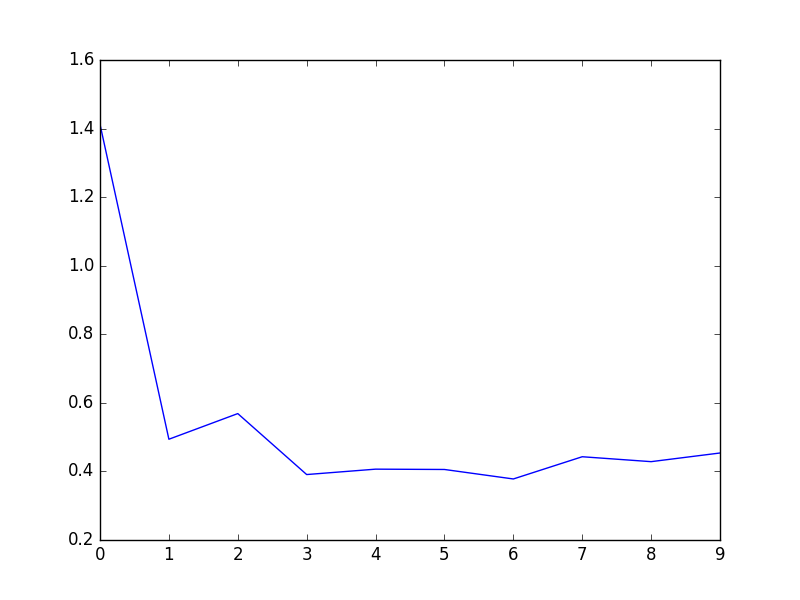
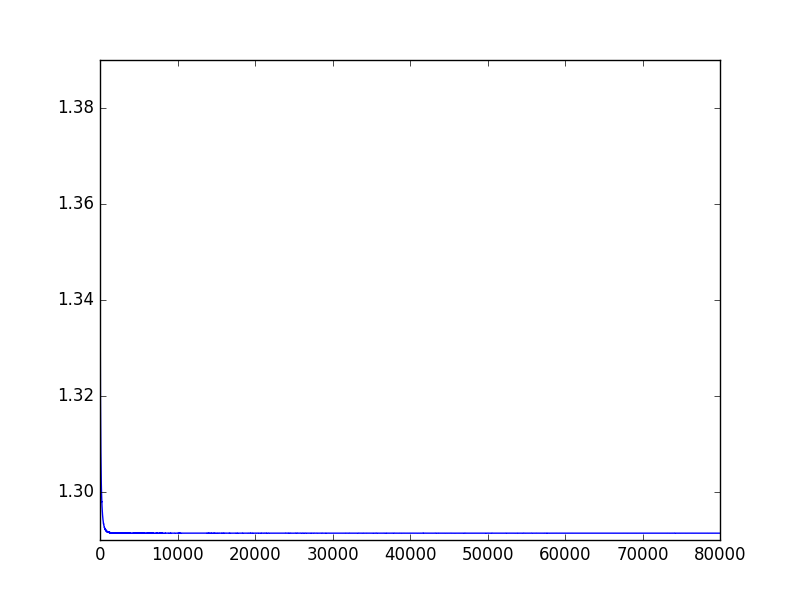
Change dim of hidden layer

diff --git a/Training.py b/Training.py
@@ -12,15 +12,15 @@ import matplotlib.pyplot as plt
 df = pd.read_csv('dorcus_DL_study.csv')
 
 # load autoencoder
-autoencoder = model_from_json(open('model_enc.json').read())
-autoencoder.load_weights('param_enc.h5')
+#autoencoder = model_from_json(open('model_enc.json').read())
+#autoencoder.load_weights('param_enc.h5')
 
 # set initial parameters
-_w = autoencoder.get_weights()
-w = _w[:6]
+#_w = autoencoder.get_weights()
+#w = _w[:6]
 
 # number of training
-numTraining = 200000
+numTraining = 80000
 
 # number of class
 Cls = list(df['class'].unique()) # [1, 2, 3, 4]
@@ -41,15 +41,15 @@ trX = np.array(X)
 
 # set model
 model = Sequential()
-model.add(Dense(output_dim=10, input_dim=2))
+model.add(Dense(output_dim=2, input_dim=2, init='normal'))
 model.add(Activation('relu'))
-model.add(Dense(output_dim=10, input_dim=10))
+model.add(Dense(output_dim=2, input_dim=2, init='normal'))
 model.add(Activation('relu'))
-model.add(Dense(output_dim=4, input_dim=10))
+model.add(Dense(output_dim=4, input_dim=2, init='normal'))
 model.add(Activation('softmax'))
 
 # set initial weights
-model.set_weights(w)
+#model.set_weights(w)
 
 # compile
 model.compile(loss='categorical_crossentropy', optimizer='adagrad', metrics=['accuracy'])

diff --git a/AutoEncoder.py b/AutoEncoder.py
@@ -26,15 +26,15 @@ trX = np.array(X)
 
 # encode
 autoencoder = Sequential()
-autoencoder.add(Dense(output_dim=10, input_dim=2, init='uniform'))
+autoencoder.add(Dense(output_dim=2, input_dim=2, init='uniform'))
 autoencoder.add(Activation('relu'))
-autoencoder.add(Dense(output_dim=10, input_dim=10, init='uniform'))
+autoencoder.add(Dense(output_dim=2, input_dim=2, init='uniform'))
 autoencoder.add(Activation('relu'))
-autoencoder.add(Dense(output_dim=4, input_dim=10, init='uniform'))
+autoencoder.add(Dense(output_dim=4, input_dim=2, init='uniform'))
 autoencoder.add(Activation('softmax'))
 
 # decode
-autoencoder.add(Dense(output_dim=10, input_dim=4, init='uniform'))
+autoencoder.add(Dense(output_dim=2, input_dim=4, init='uniform'))
 autoencoder.add(Activation('softmax'))
 autoencoder.add(Dense(output_dim=10, input_dim=10, init='uniform'))
 autoencoder.add(Activation('relu'))
